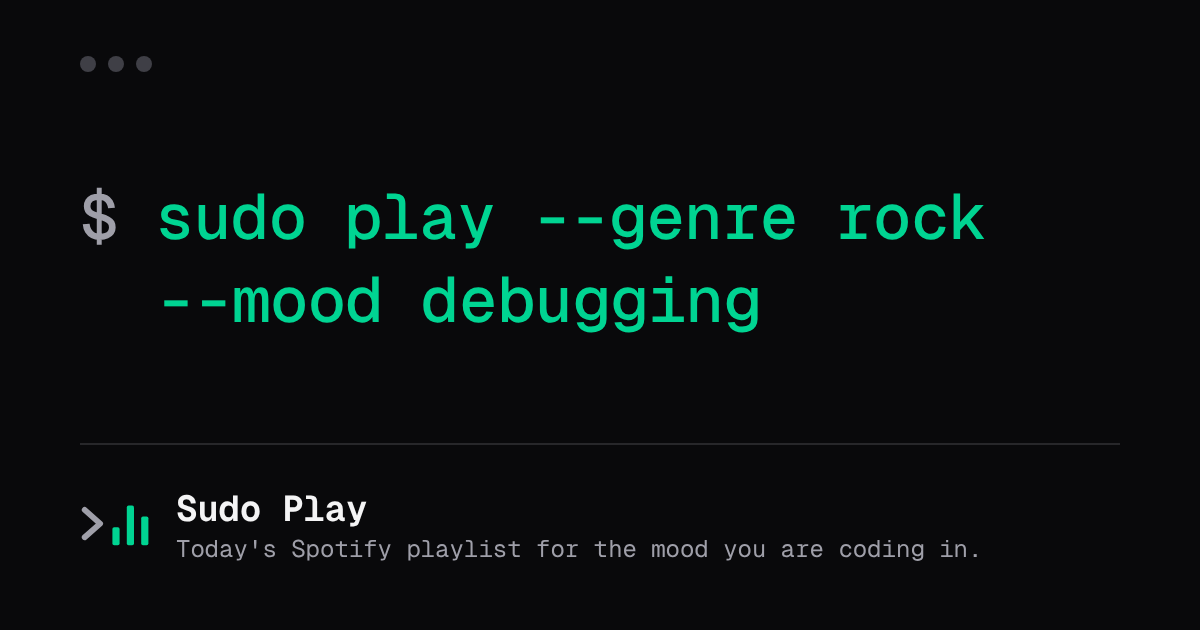
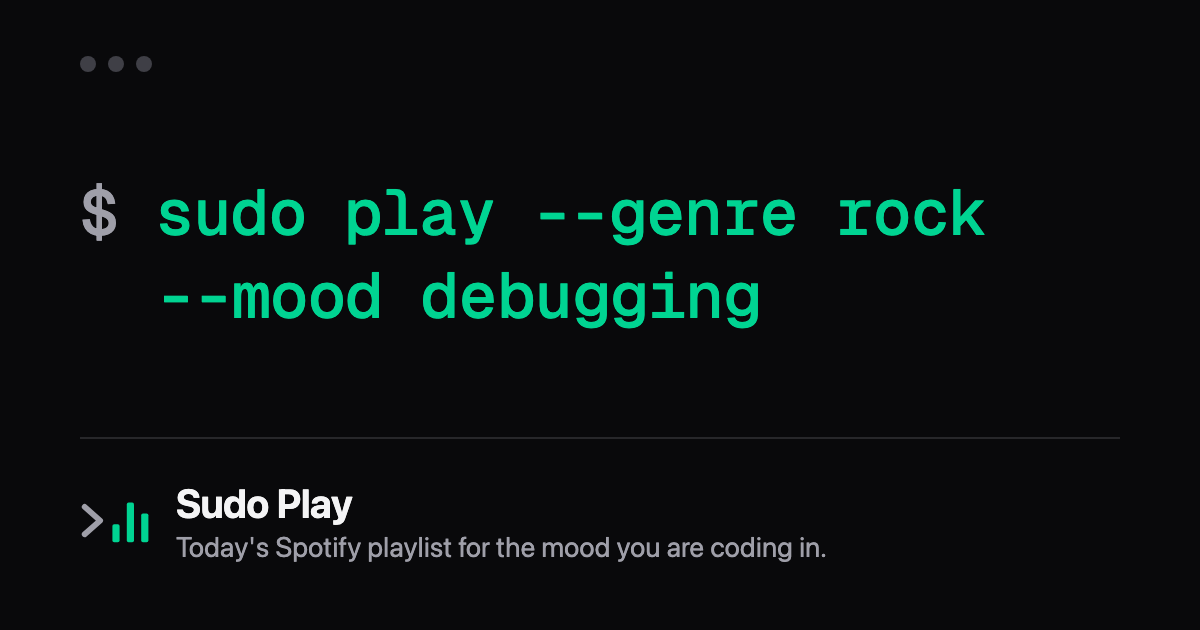
style: set the preview name in the system sans
The Mono in Three Places Rule keeps Geist Mono to the panel, code
and labels. The name and the line under it now use the system sans,
as the masthead does, at 40px and 28px so the line still reads when
a chat app shows the image small. The system sans is SF Pro only on
a Mac, so npm run og:image now stops on any other platform.

diff --git a/scripts/og-image.ts b/scripts/og-image.ts
@@ -4,11 +4,18 @@
 //   npm run og:image
 //
 // It draws the Home terminal panel at 1200 by 630 with the site's own tokens,
-// mark and font, so the image matches the site without a design tool. Only
-// Geist Mono is used, because a system font differs from machine to machine
-// and would make the PNG change with whoever ran the script.
+// mark and fonts, so the image matches the site without a design tool. As on
+// the site, Geist Mono sets only the brand line, and the name and the line
+// under it are the system sans, as in the masthead. That is SF Pro on a Mac,
+// the face a Mac visitor sees, so the script runs only on macOS: elsewhere the
+// system sans differs and the PNG would change with whoever ran it.
 import { readFileSync } from 'node:fs';
 import { chromium } from '@playwright/test';
+
+if (process.platform !== 'darwin') {
+  console.error('og:image draws the name in the system sans, so run it on macOS.');
+  process.exit(1);
+}
 
 const font = readFileSync('public/fonts/geist-mono/geist-mono-latin-wght-normal.woff2').toString('base64');
 
@@ -75,8 +82,9 @@ const html = `<!doctype html>
   }
 
   .mark { width: 72px; height: auto; flex: none; }
-  .name { color: ${term.fg}; font-size: 36px; font-weight: 650; letter-spacing: -0.01em; }
-  .tagline { font-size: 24px; line-height: 1.4; }
+  .brand { font-family: system-ui, -apple-system, sans-serif; }
+  .name { color: ${term.fg}; font-size: 40px; font-weight: 650; line-height: 1.2; letter-spacing: -0.015em; }
+  .tagline { font-size: 28px; line-height: 1.4; }
 </style>
 </head>
 <body>
@@ -91,7 +99,7 @@ const html = `<!doctype html>
         <rect x="36" y="12" width="4" height="16" rx="1" />
       </g>
     </svg>
-    <div>
+    <div class="brand">
       <div class="name">Sudo Play</div>
       <div class="tagline">Today's Spotify playlist for the mood you are coding in.</div>
     </div>

diff --git a/README.md b/README.md
@@ -35,7 +35,7 @@ npm run check                     # build once, then every test
 | `npm test` | Vitest checks on `dist/`: titles and canonicals, the design tokens and fonts, the copy on each page, no placeholder text, and the SEO files and tags |
 | `npm run test:e2e` | Playwright against the preview server: the shell, navigation, focus, the 320px width, axe in light and dark, and **no built page makes a third party request before consent** |
 | `npm run check` | All three, in that order. CI runs this |
-| `npm run og:image` | Draws `public/og.png`, the link preview image, with Playwright. By hand, when the design or the tagline changes. Commit the PNG |
+| `npm run og:image` | Draws `public/og.png`, the link preview image, with Playwright. On macOS only, by hand, when the design or the tagline changes. Commit the PNG |
 | `npm run check:catalog` | Compares `src/data/catalog.ts` with the app's catalog in `../sudo-play` (or a path given as an argument). By hand, at each release |
 
 `npm test` and `npm run test:e2e` read `dist/` and do not build it, so run

diff --git a/AGENTS.md b/AGENTS.md
@@ -27,7 +27,7 @@ writes the Open Graph tags. `src/pages/sitemap.xml.ts` builds the sitemap from
 `src/data/nav.ts`, so a new page is added there and nowhere else.
 `public/robots.txt` allows every crawler. The 404 is the one `noindex` page,
 with no canonical. `public/og.png` is the one preview image: when the design
-or the tagline changes, run `npm run og:image` and commit the PNG.
+or the tagline changes, run `npm run og:image` on a Mac and commit the PNG.
 
 The copy describes the app at the commit in `src/data/release.ts`
 (`checkedAt`). The app has no release yet, so `release` is `null`, and every
